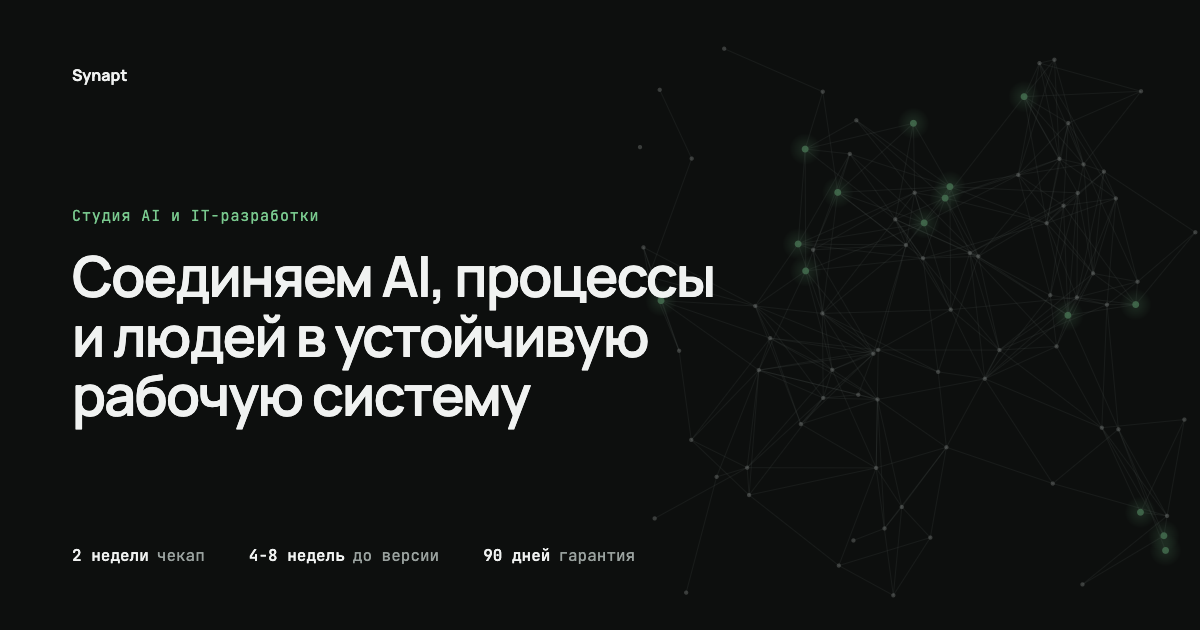
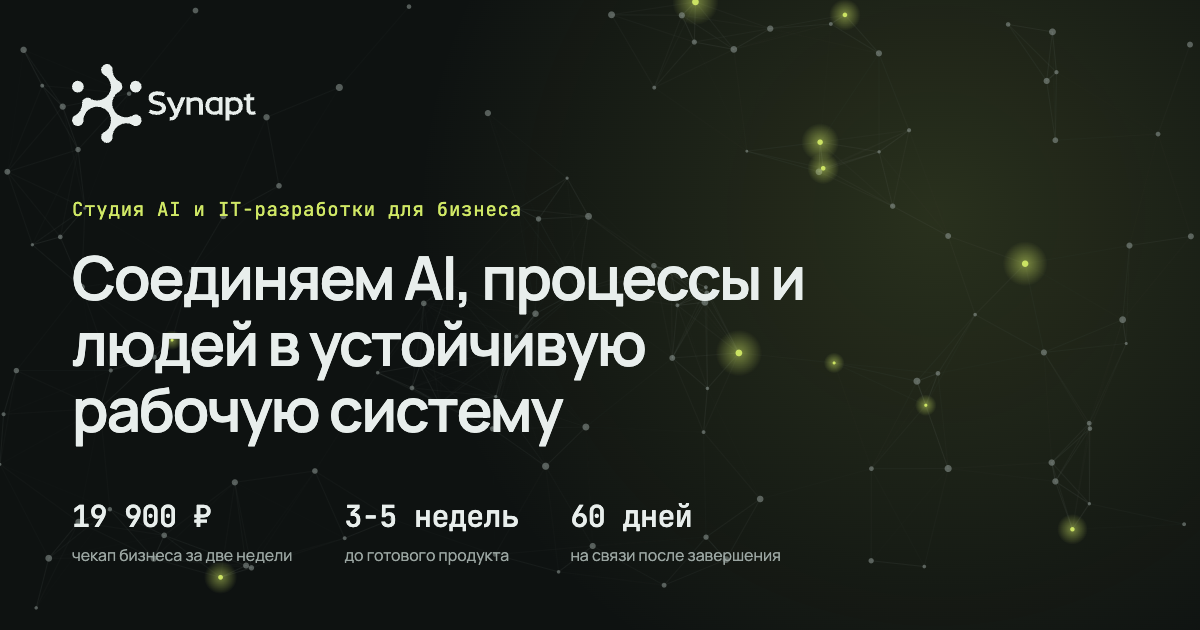
Новая иконка вкладки и превью ссылки в лайме

diff --git a/content/index.html b/content/index.html
@@ -306,7 +306,12 @@ h3{font-size:19px;font-weight:600;letter-spacing:-.015em}
  .rules.seq .rule:nth-child(2n)::after{display:none}}
 @media(max-width:560px){.rules.seq{grid-template-columns:1fr}
  .rules.seq .rule::after{display:none}}
-</style></head>
+</style><link rel="icon" href="/favicon.svg" type="image/svg+xml">
+<link rel="icon" href="/favicon-512.png" sizes="512x512" type="image/png">
+<link rel="apple-touch-icon" href="/apple-touch-icon.png">
+<meta name="theme-color" content="#0E1211">
+<meta property="og:image" content="https://synapt.tech/og.png">
+</head>
 <body>
 <svg width="0" height="0" style="position:absolute" aria-hidden="true"><symbol id="lg" viewBox="0 0 839 360"><g transform="translate(-30,0)"><path d="M416.193 232.251C403.922 232.402 389.832 229.229 379.378 222.582L386.65 207.775C392.71 211.099 404.225 215.178 416.193 215.481C426.344 215.632 437.403 212.912 439.524 204.301C440.585 199.013 438.312 194.48 433.767 192.063C425.435 187.379 414.527 185.869 405.134 183.149C390.438 178.768 378.166 170.609 379.378 153.386C380.893 130.27 402.255 124.529 421.95 124.68C433.161 124.831 443.615 126.796 453.917 130.875L447.857 146.738C439.827 143.717 429.828 141.753 420.89 141.753C412.557 141.602 399.074 142.961 398.316 154.141C398.013 161.847 404.225 164.717 410.285 166.681C422.556 170.156 434.07 171.063 445.281 177.559C456.341 184.056 460.583 194.934 457.856 207.322C453.766 226.661 433.313 232.1 416.193 232.251Z"/><path d="M476.072 257.33L475.617 242.071C484.556 242.675 490.767 241.618 494.555 232.402L496.221 228.02L460.316 151.573H480.314L505.312 206.567L527.431 151.573H547.126L511.372 237.388C504.706 253.402 492.282 258.539 476.072 257.33Z"/><path d="M552.394 231.344V151.573H566.484L568.453 157.616C577.24 153.537 586.936 151.271 595.724 151.422C612.843 151.573 627.236 160.487 627.236 183.602V231.344H609.359V183.602C609.359 171.365 602.693 166.983 593.754 166.832C585.573 166.681 576.028 169.854 570.12 174.689V231.344H552.394Z"/><path d="M699.051 210.495V171.516C694.354 166.681 685.113 164.566 677.992 164.868C665.721 165.17 655.57 173.48 655.57 190.854C655.57 208.531 665.721 216.689 677.992 217.143C685.113 217.294 694.354 215.027 699.051 210.495ZM637.844 190.854C637.844 166.681 654.51 150.062 678.447 150.062C685.719 150.062 694.203 151.724 700.566 155.803L702.081 150.666H716.777V231.344H702.081L700.566 226.056C694.203 230.287 685.719 231.949 678.447 231.949C654.51 231.949 637.844 215.178 637.844 190.854Z"/><path d="M767.811 216.689C782.81 216.689 791.143 206.114 791.143 191.459C791.143 174.537 781.901 166.983 770.387 166.379C762.812 165.926 754.025 167.588 748.116 173.631V210.797C752.51 215.027 760.539 216.689 767.811 216.689ZM730.39 257.33V151.573H744.329L746.45 156.861C753.873 152.933 761.297 150.818 769.932 150.818C794.173 150.818 809.02 167.286 809.02 191.459C809.02 215.783 791.597 232.1 767.811 232.1C760.994 232.1 754.328 230.589 748.116 227.567V257.33H730.39Z"/><path d="M852.032 232.251C837.942 232.402 825.519 223.941 825.519 205.358V165.624H812.793V151.573H825.519V138.731L843.396 133.745V151.573H860.819V165.624H843.396V205.358C843.396 214.423 847.941 216.84 853.85 216.991C857.183 217.143 860.97 216.538 864.607 215.33L869 229.229C863.243 231.344 857.637 232.251 852.032 232.251Z"/></g><path d="M159.195 0C171.173 0 181.31 7.88936 184.654 18.7451C184.861 19.4161 184.908 20.1234 184.851 20.8231C184.713 22.5205 184.642 24.2362 184.642 25.9672C184.642 28.5667 184.802 31.1306 185.112 33.6486C187.506 53.1417 198.885 69.8519 214.978 79.5476C215.737 80.0051 216.509 80.4455 217.289 80.8709C224.71 85.592 229.619 93.8647 229.619 103.279C229.619 111.25 226.1 118.397 220.517 123.269C220.133 123.604 219.697 123.871 219.237 124.09C216.415 125.431 213.707 126.973 211.137 128.703C197.248 138.051 187.307 152.808 184.361 169.958C183.768 173.416 183.459 176.969 183.459 180.59C183.459 183.918 183.72 187.188 184.223 190.38C186.834 206.945 195.96 221.343 208.889 230.892C212.572 233.613 216.567 235.941 220.808 237.814C228.573 241.244 237.163 243.148 246.19 243.148C255.217 243.148 263.807 241.244 271.571 237.814C275.309 236.163 278.854 234.158 282.164 231.844C282.713 231.46 283.316 231.153 283.966 230.988C286.076 230.451 288.29 230.164 290.575 230.164C305.283 230.164 317.206 242.054 317.206 256.721C317.206 271.389 305.283 283.279 290.575 283.279C289.033 283.279 287.524 283.148 286.058 282.898C285.232 282.758 284.465 282.394 283.783 281.908C279.702 279.002 275.256 276.569 270.525 274.695C263.358 271.855 255.544 270.295 247.373 270.295C237.26 270.295 227.695 272.684 219.226 276.931C216.488 278.304 213.866 279.87 211.377 281.612C196.983 291.686 187.018 307.649 185.013 326.007C184.768 328.256 184.642 330.541 184.642 332.852C184.642 334.869 184.739 336.864 184.927 338.833C184.993 339.532 184.956 340.239 184.758 340.913C181.523 351.944 171.299 360 159.195 360C144.487 360 132.564 348.11 132.564 333.443C132.564 326.274 135.408 319.772 140.041 314.99C140.506 314.511 141.068 314.141 141.672 313.855C145.364 312.109 148.859 310.015 152.111 307.614C165.04 298.064 174.165 283.666 176.777 267.101C177.28 263.91 177.541 260.64 177.541 257.311C177.541 253.69 177.232 250.137 176.638 246.679C173.508 228.455 162.48 212.934 147.205 203.731C146.398 203.245 145.579 202.777 144.75 202.327C135.849 197.497 125.645 194.754 114.81 194.754C105.616 194.754 96.8757 196.73 88.9992 200.28C85.7632 201.739 82.6721 203.462 79.7569 205.424C65.0769 215.305 54.8087 231.228 52.5479 249.63C52.2386 252.148 52.0786 252.942 52.0786 255.541C52.0786 257.632 52.9736 261.276 52.3826 263.512C49.3746 274.891 38.9818 283.279 26.6311 283.279C11.9232 283.279 0 271.389 0 256.721C0 249.645 2.77124 243.219 7.29812 238.456C10.0606 235.549 17.1676 233.615 21.4887 230.322C34.7668 220.202 43.882 204.903 45.7895 187.436C46.0352 185.186 46.1606 182.902 46.1606 180.59C46.1606 178.573 46.063 176.578 45.875 174.609C45.8083 173.91 45.8458 173.202 46.0434 172.529C49.279 161.498 59.5045 153.443 71.6081 153.443C73.1495 153.443 74.6579 153.573 76.1233 153.822C76.9496 153.962 77.7164 154.327 78.3985 154.812C82.4801 157.719 86.9264 160.152 91.6577 162.027C98.8255 164.866 106.639 166.426 114.81 166.426C123.836 166.426 132.427 164.523 140.191 161.093C144.433 159.219 148.427 156.892 152.111 154.171C165.8 144.06 175.226 128.512 177.17 110.715C177.415 108.465 177.541 106.18 177.541 103.869C177.541 101.269 177.381 98.7055 177.071 96.1875C174.677 76.6944 163.298 59.9841 147.205 50.2884C146.447 49.8315 145.675 49.3903 144.894 48.964C137.473 44.2427 132.564 35.9708 132.564 26.5574C132.564 11.8901 144.487 0 159.195 0ZM26.6311 76.7213C41.3391 76.7213 53.2622 88.6115 53.2622 103.279C53.2622 117.946 41.3391 129.836 26.6311 129.836C11.9231 129.836 0 117.946 0 103.279C0 88.6115 11.9231 76.7213 26.6311 76.7213ZM290.575 76.7213C305.283 76.7213 317.206 88.6115 317.206 103.279C317.206 117.946 305.283 129.836 290.575 129.836C275.867 129.836 263.944 117.946 263.944 103.279C263.944 88.6115 275.867 76.7213 290.575 76.7213Z"/></symbol></svg>
 <div class="wrap">

diff --git a/site/content/index.html b/site/content/index.html
@@ -306,7 +306,12 @@ h3{font-size:19px;font-weight:600;letter-spacing:-.015em}
  .rules.seq .rule:nth-child(2n)::after{display:none}}
 @media(max-width:560px){.rules.seq{grid-template-columns:1fr}
  .rules.seq .rule::after{display:none}}
-</style></head>
+</style><link rel="icon" href="/favicon.svg" type="image/svg+xml">
+<link rel="icon" href="/favicon-512.png" sizes="512x512" type="image/png">
+<link rel="apple-touch-icon" href="/apple-touch-icon.png">
+<meta name="theme-color" content="#0E1211">
+<meta property="og:image" content="https://synapt.tech/og.png">
+</head>
 <body>
 <svg width="0" height="0" style="position:absolute" aria-hidden="true"><symbol id="lg" viewBox="0 0 839 360"><g transform="translate(-30,0)"><path d="M416.193 232.251C403.922 232.402 389.832 229.229 379.378 222.582L386.65 207.775C392.71 211.099 404.225 215.178 416.193 215.481C426.344 215.632 437.403 212.912 439.524 204.301C440.585 199.013 438.312 194.48 433.767 192.063C425.435 187.379 414.527 185.869 405.134 183.149C390.438 178.768 378.166 170.609 379.378 153.386C380.893 130.27 402.255 124.529 421.95 124.68C433.161 124.831 443.615 126.796 453.917 130.875L447.857 146.738C439.827 143.717 429.828 141.753 420.89 141.753C412.557 141.602 399.074 142.961 398.316 154.141C398.013 161.847 404.225 164.717 410.285 166.681C422.556 170.156 434.07 171.063 445.281 177.559C456.341 184.056 460.583 194.934 457.856 207.322C453.766 226.661 433.313 232.1 416.193 232.251Z"/><path d="M476.072 257.33L475.617 242.071C484.556 242.675 490.767 241.618 494.555 232.402L496.221 228.02L460.316 151.573H480.314L505.312 206.567L527.431 151.573H547.126L511.372 237.388C504.706 253.402 492.282 258.539 476.072 257.33Z"/><path d="M552.394 231.344V151.573H566.484L568.453 157.616C577.24 153.537 586.936 151.271 595.724 151.422C612.843 151.573 627.236 160.487 627.236 183.602V231.344H609.359V183.602C609.359 171.365 602.693 166.983 593.754 166.832C585.573 166.681 576.028 169.854 570.12 174.689V231.344H552.394Z"/><path d="M699.051 210.495V171.516C694.354 166.681 685.113 164.566 677.992 164.868C665.721 165.17 655.57 173.48 655.57 190.854C655.57 208.531 665.721 216.689 677.992 217.143C685.113 217.294 694.354 215.027 699.051 210.495ZM637.844 190.854C637.844 166.681 654.51 150.062 678.447 150.062C685.719 150.062 694.203 151.724 700.566 155.803L702.081 150.666H716.777V231.344H702.081L700.566 226.056C694.203 230.287 685.719 231.949 678.447 231.949C654.51 231.949 637.844 215.178 637.844 190.854Z"/><path d="M767.811 216.689C782.81 216.689 791.143 206.114 791.143 191.459C791.143 174.537 781.901 166.983 770.387 166.379C762.812 165.926 754.025 167.588 748.116 173.631V210.797C752.51 215.027 760.539 216.689 767.811 216.689ZM730.39 257.33V151.573H744.329L746.45 156.861C753.873 152.933 761.297 150.818 769.932 150.818C794.173 150.818 809.02 167.286 809.02 191.459C809.02 215.783 791.597 232.1 767.811 232.1C760.994 232.1 754.328 230.589 748.116 227.567V257.33H730.39Z"/><path d="M852.032 232.251C837.942 232.402 825.519 223.941 825.519 205.358V165.624H812.793V151.573H825.519V138.731L843.396 133.745V151.573H860.819V165.624H843.396V205.358C843.396 214.423 847.941 216.84 853.85 216.991C857.183 217.143 860.97 216.538 864.607 215.33L869 229.229C863.243 231.344 857.637 232.251 852.032 232.251Z"/></g><path d="M159.195 0C171.173 0 181.31 7.88936 184.654 18.7451C184.861 19.4161 184.908 20.1234 184.851 20.8231C184.713 22.5205 184.642 24.2362 184.642 25.9672C184.642 28.5667 184.802 31.1306 185.112 33.6486C187.506 53.1417 198.885 69.8519 214.978 79.5476C215.737 80.0051 216.509 80.4455 217.289 80.8709C224.71 85.592 229.619 93.8647 229.619 103.279C229.619 111.25 226.1 118.397 220.517 123.269C220.133 123.604 219.697 123.871 219.237 124.09C216.415 125.431 213.707 126.973 211.137 128.703C197.248 138.051 187.307 152.808 184.361 169.958C183.768 173.416 183.459 176.969 183.459 180.59C183.459 183.918 183.72 187.188 184.223 190.38C186.834 206.945 195.96 221.343 208.889 230.892C212.572 233.613 216.567 235.941 220.808 237.814C228.573 241.244 237.163 243.148 246.19 243.148C255.217 243.148 263.807 241.244 271.571 237.814C275.309 236.163 278.854 234.158 282.164 231.844C282.713 231.46 283.316 231.153 283.966 230.988C286.076 230.451 288.29 230.164 290.575 230.164C305.283 230.164 317.206 242.054 317.206 256.721C317.206 271.389 305.283 283.279 290.575 283.279C289.033 283.279 287.524 283.148 286.058 282.898C285.232 282.758 284.465 282.394 283.783 281.908C279.702 279.002 275.256 276.569 270.525 274.695C263.358 271.855 255.544 270.295 247.373 270.295C237.26 270.295 227.695 272.684 219.226 276.931C216.488 278.304 213.866 279.87 211.377 281.612C196.983 291.686 187.018 307.649 185.013 326.007C184.768 328.256 184.642 330.541 184.642 332.852C184.642 334.869 184.739 336.864 184.927 338.833C184.993 339.532 184.956 340.239 184.758 340.913C181.523 351.944 171.299 360 159.195 360C144.487 360 132.564 348.11 132.564 333.443C132.564 326.274 135.408 319.772 140.041 314.99C140.506 314.511 141.068 314.141 141.672 313.855C145.364 312.109 148.859 310.015 152.111 307.614C165.04 298.064 174.165 283.666 176.777 267.101C177.28 263.91 177.541 260.64 177.541 257.311C177.541 253.69 177.232 250.137 176.638 246.679C173.508 228.455 162.48 212.934 147.205 203.731C146.398 203.245 145.579 202.777 144.75 202.327C135.849 197.497 125.645 194.754 114.81 194.754C105.616 194.754 96.8757 196.73 88.9992 200.28C85.7632 201.739 82.6721 203.462 79.7569 205.424C65.0769 215.305 54.8087 231.228 52.5479 249.63C52.2386 252.148 52.0786 252.942 52.0786 255.541C52.0786 257.632 52.9736 261.276 52.3826 263.512C49.3746 274.891 38.9818 283.279 26.6311 283.279C11.9232 283.279 0 271.389 0 256.721C0 249.645 2.77124 243.219 7.29812 238.456C10.0606 235.549 17.1676 233.615 21.4887 230.322C34.7668 220.202 43.882 204.903 45.7895 187.436C46.0352 185.186 46.1606 182.902 46.1606 180.59C46.1606 178.573 46.063 176.578 45.875 174.609C45.8083 173.91 45.8458 173.202 46.0434 172.529C49.279 161.498 59.5045 153.443 71.6081 153.443C73.1495 153.443 74.6579 153.573 76.1233 153.822C76.9496 153.962 77.7164 154.327 78.3985 154.812C82.4801 157.719 86.9264 160.152 91.6577 162.027C98.8255 164.866 106.639 166.426 114.81 166.426C123.836 166.426 132.427 164.523 140.191 161.093C144.433 159.219 148.427 156.892 152.111 154.171C165.8 144.06 175.226 128.512 177.17 110.715C177.415 108.465 177.541 106.18 177.541 103.869C177.541 101.269 177.381 98.7055 177.071 96.1875C174.677 76.6944 163.298 59.9841 147.205 50.2884C146.447 49.8315 145.675 49.3903 144.894 48.964C137.473 44.2427 132.564 35.9708 132.564 26.5574C132.564 11.8901 144.487 0 159.195 0ZM26.6311 76.7213C41.3391 76.7213 53.2622 88.6115 53.2622 103.279C53.2622 117.946 41.3391 129.836 26.6311 129.836C11.9231 129.836 0 117.946 0 103.279C0 88.6115 11.9231 76.7213 26.6311 76.7213ZM290.575 76.7213C305.283 76.7213 317.206 88.6115 317.206 103.279C317.206 117.946 305.283 129.836 290.575 129.836C275.867 129.836 263.944 117.946 263.944 103.279C263.944 88.6115 275.867 76.7213 290.575 76.7213Z"/></symbol></svg>
 <div class="wrap">

diff --git a/prodazh/index.html b/prodazh/index.html
@@ -11,12 +11,12 @@
 <meta property="og:title" content="Synapt – AI-продавец в&nbsp;переписке">
 <meta property="og:description" content="AI-продавец в&nbsp;переписке">
 <meta property="og:url" content="/synapt/prodazh/">
-<meta property="og:image" content="/synapt/prodazh/og.png">
+<meta property="og:image" content="https://synapt.tech/og.png">
 <meta property="og:image:width" content="1200">
 <meta property="og:image:height" content="630">
 <meta name="twitter:card" content="summary_large_image">
 <meta name="twitter:title" content="Synapt – AI-продавец в&nbsp;переписке">
-<meta name="twitter:image" content="/synapt/prodazh/og.png">
+<meta name="twitter:image" content="https://synapt.tech/og.png">
 <link rel="canonical" href="/synapt/prodazh/">
 <link rel="preconnect" href="https://fonts.googleapis.com">
 <link rel="preconnect" href="https://fonts.gstatic.com" crossorigin>
@@ -1371,6 +1371,10 @@ footer{margin-top:26px;padding:24px 0 0;break-inside:avoid;page-break-inside:avo
   border-bottom:1px solid var(--line-accent);width:fit-content;font-feature-settings:"liga" 0}
 
 </style>
+<link rel="icon" href="/favicon.svg" type="image/svg+xml">
+<link rel="icon" href="/favicon-512.png" sizes="512x512" type="image/png">
+<link rel="apple-touch-icon" href="/apple-touch-icon.png">
+<meta name="theme-color" content="#0E1211">
 </head>
 <body>
 <nav class="nav"><div class="wrap">

diff --git a/checkup/index.html b/checkup/index.html
@@ -11,7 +11,7 @@
 <meta property="og:title" content="За&nbsp;две недели видно, где теряете деньги и&nbsp;что&nbsp;делать первым">
 <meta property="og:description" content="AI-чекап бизнеса за&nbsp;две недели: три Zoom, карта всех процессов компании с&nbsp;узкими местами, приоритеты, план с&nbsp;вилкой бюджета и&nbsp;собранный агент на&nbsp;ваших материалах. 19 900 ₽">
 <meta property="og:url" content="/synapt/checkup/">
-<meta property="og:image" content="/synapt/checkup/og.png">
+<meta property="og:image" content="https://synapt.tech/og.png">
 <meta property="og:image:width" content="1200">
 <meta property="og:image:height" content="630">
 <meta name="twitter:card" content="summary_large_image">
@@ -980,6 +980,10 @@ footer{padding-bottom:104px}
 .lf-check a,.agree a{color:var(--text-muted)!important;border-bottom-color:var(--line-accent)!important}
 .lf-check a:hover,.agree a:hover{color:var(--text)!important;border-bottom-color:var(--accent)!important}
 </style>
+<link rel="icon" href="/favicon.svg" type="image/svg+xml">
+<link rel="icon" href="/favicon-512.png" sizes="512x512" type="image/png">
+<link rel="apple-touch-icon" href="/apple-touch-icon.png">
+<meta name="theme-color" content="#0E1211">
 </head>
 <body>
 <nav class="nav"><div class="wrap">

diff --git a/site/checkup/index.html b/site/checkup/index.html
@@ -11,7 +11,7 @@
 <meta property="og:title" content="За&nbsp;две недели видно, где теряете деньги и&nbsp;что&nbsp;делать первым">
 <meta property="og:description" content="AI-чекап бизнеса за&nbsp;две недели: три Zoom, карта всех процессов компании с&nbsp;узкими местами, приоритеты, план с&nbsp;вилкой бюджета и&nbsp;собранный агент на&nbsp;ваших материалах. 19 900 ₽">
 <meta property="og:url" content="/checkup/">
-<meta property="og:image" content="/checkup/og.png">
+<meta property="og:image" content="https://synapt.tech/og.png">
 <meta property="og:image:width" content="1200">
 <meta property="og:image:height" content="630">
 <meta name="twitter:card" content="summary_large_image">
@@ -980,6 +980,10 @@ footer{padding-bottom:104px}
 .lf-check a,.agree a{color:var(--text-muted)!important;border-bottom-color:var(--line-accent)!important}
 .lf-check a:hover,.agree a:hover{color:var(--text)!important;border-bottom-color:var(--accent)!important}
 </style>
+<link rel="icon" href="/favicon.svg" type="image/svg+xml">
+<link rel="icon" href="/favicon-512.png" sizes="512x512" type="image/png">
+<link rel="apple-touch-icon" href="/apple-touch-icon.png">
+<meta name="theme-color" content="#0E1211">
 </head>
 <body>
 <nav class="nav"><div class="wrap">

diff --git a/site/prodazh/index.html b/site/prodazh/index.html
@@ -11,12 +11,12 @@
 <meta property="og:title" content="Synapt – AI-продавец в&nbsp;переписке">
 <meta property="og:description" content="AI-продавец в&nbsp;переписке">
 <meta property="og:url" content="/prodazh/">
-<meta property="og:image" content="/prodazh/og.png">
+<meta property="og:image" content="https://synapt.tech/og.png">
 <meta property="og:image:width" content="1200">
 <meta property="og:image:height" content="630">
 <meta name="twitter:card" content="summary_large_image">
 <meta name="twitter:title" content="Synapt – AI-продавец в&nbsp;переписке">
-<meta name="twitter:image" content="/prodazh/og.png">
+<meta name="twitter:image" content="https://synapt.tech/og.png">
 <link rel="canonical" href="/prodazh/">
 <link rel="preconnect" href="https://fonts.googleapis.com">
 <link rel="preconnect" href="https://fonts.gstatic.com" crossorigin>
@@ -1371,6 +1371,10 @@ footer{margin-top:26px;padding:24px 0 0;break-inside:avoid;page-break-inside:avo
   border-bottom:1px solid var(--line-accent);width:fit-content;font-feature-settings:"liga" 0}
 
 </style>
+<link rel="icon" href="/favicon.svg" type="image/svg+xml">
+<link rel="icon" href="/favicon-512.png" sizes="512x512" type="image/png">
+<link rel="apple-touch-icon" href="/apple-touch-icon.png">
+<meta name="theme-color" content="#0E1211">
 </head>
 <body>
 <nav class="nav"><div class="wrap">

diff --git a/safe/index.html b/safe/index.html
@@ -11,12 +11,12 @@
 <meta property="og:title" content="Synapt – Безопасный слой">
 <meta property="og:description" content="Безопасный слой">
 <meta property="og:url" content="/synapt/safe/">
-<meta property="og:image" content="/synapt/safe/og.png">
+<meta property="og:image" content="https://synapt.tech/og.png">
 <meta property="og:image:width" content="1200">
 <meta property="og:image:height" content="630">
 <meta name="twitter:card" content="summary_large_image">
 <meta name="twitter:title" content="Synapt – Безопасный слой">
-<meta name="twitter:image" content="/synapt/safe/og.png">
+<meta name="twitter:image" content="https://synapt.tech/og.png">
 <link rel="canonical" href="/synapt/safe/">
 <link rel="preconnect" href="https://fonts.googleapis.com">
 <link rel="preconnect" href="https://fonts.gstatic.com" crossorigin>
@@ -1371,6 +1371,10 @@ footer{margin-top:26px;padding:24px 0 0;break-inside:avoid;page-break-inside:avo
   border-bottom:1px solid var(--line-accent);width:fit-content;font-feature-settings:"liga" 0}
 
 </style>
+<link rel="icon" href="/favicon.svg" type="image/svg+xml">
+<link rel="icon" href="/favicon-512.png" sizes="512x512" type="image/png">
+<link rel="apple-touch-icon" href="/apple-touch-icon.png">
+<meta name="theme-color" content="#0E1211">
 </head>
 <body>
 <nav class="nav"><div class="wrap">

diff --git a/globaldent/index.html b/globaldent/index.html
@@ -11,12 +11,12 @@
 <meta property="og:title" content="Synapt – Кейс GlobalDent">
 <meta property="og:description" content="Кейс GlobalDent">
 <meta property="og:url" content="/synapt/globaldent/">
-<meta property="og:image" content="/synapt/globaldent/og.png">
+<meta property="og:image" content="https://synapt.tech/og.png">
 <meta property="og:image:width" content="1200">
 <meta property="og:image:height" content="630">
 <meta name="twitter:card" content="summary_large_image">
 <meta name="twitter:title" content="Synapt – Кейс GlobalDent">
-<meta name="twitter:image" content="/synapt/globaldent/og.png">
+<meta name="twitter:image" content="https://synapt.tech/og.png">
 <link rel="canonical" href="/synapt/globaldent/">
 <link rel="preconnect" href="https://fonts.googleapis.com">
 <link rel="preconnect" href="https://fonts.gstatic.com" crossorigin>
@@ -1371,6 +1371,10 @@ footer{margin-top:26px;padding:24px 0 0;break-inside:avoid;page-break-inside:avo
   border-bottom:1px solid var(--line-accent);width:fit-content;font-feature-settings:"liga" 0}
 
 </style>
+<link rel="icon" href="/favicon.svg" type="image/svg+xml">
+<link rel="icon" href="/favicon-512.png" sizes="512x512" type="image/png">
+<link rel="apple-touch-icon" href="/apple-touch-icon.png">
+<meta name="theme-color" content="#0E1211">
 </head>
 <body>
 <nav class="nav"><div class="wrap">

diff --git a/innorto/index.html b/innorto/index.html
@@ -11,12 +11,12 @@
 <meta property="og:title" content="Synapt – Кейс INNORTO">
 <meta property="og:description" content="Кейс INNORTO">
 <meta property="og:url" content="/synapt/innorto/">
-<meta property="og:image" content="/synapt/innorto/og.png">
+<meta property="og:image" content="https://synapt.tech/og.png">
 <meta property="og:image:width" content="1200">
 <meta property="og:image:height" content="630">
 <meta name="twitter:card" content="summary_large_image">
 <meta name="twitter:title" content="Synapt – Кейс INNORTO">
-<meta name="twitter:image" content="/synapt/innorto/og.png">
+<meta name="twitter:image" content="https://synapt.tech/og.png">
 <link rel="canonical" href="/synapt/innorto/">
 <link rel="preconnect" href="https://fonts.googleapis.com">
 <link rel="preconnect" href="https://fonts.gstatic.com" crossorigin>
@@ -1371,6 +1371,10 @@ footer{margin-top:26px;padding:24px 0 0;break-inside:avoid;page-break-inside:avo
   border-bottom:1px solid var(--line-accent);width:fit-content;font-feature-settings:"liga" 0}
 
 </style>
+<link rel="icon" href="/favicon.svg" type="image/svg+xml">
+<link rel="icon" href="/favicon-512.png" sizes="512x512" type="image/png">
+<link rel="apple-touch-icon" href="/apple-touch-icon.png">
+<meta name="theme-color" content="#0E1211">
 </head>
 <body>
 <nav class="nav"><div class="wrap">

diff --git a/site/safe/index.html b/site/safe/index.html
@@ -11,12 +11,12 @@
 <meta property="og:title" content="Synapt – Безопасный слой">
 <meta property="og:description" content="Безопасный слой">
 <meta property="og:url" content="/safe/">
-<meta property="og:image" content="/safe/og.png">
+<meta property="og:image" content="https://synapt.tech/og.png">
 <meta property="og:image:width" content="1200">
 <meta property="og:image:height" content="630">
 <meta name="twitter:card" content="summary_large_image">
 <meta name="twitter:title" content="Synapt – Безопасный слой">
-<meta name="twitter:image" content="/safe/og.png">
+<meta name="twitter:image" content="https://synapt.tech/og.png">
 <link rel="canonical" href="/safe/">
 <link rel="preconnect" href="https://fonts.googleapis.com">
 <link rel="preconnect" href="https://fonts.gstatic.com" crossorigin>
@@ -1371,6 +1371,10 @@ footer{margin-top:26px;padding:24px 0 0;break-inside:avoid;page-break-inside:avo
   border-bottom:1px solid var(--line-accent);width:fit-content;font-feature-settings:"liga" 0}
 
 </style>
+<link rel="icon" href="/favicon.svg" type="image/svg+xml">
+<link rel="icon" href="/favicon-512.png" sizes="512x512" type="image/png">
+<link rel="apple-touch-icon" href="/apple-touch-icon.png">
+<meta name="theme-color" content="#0E1211">
 </head>
 <body>
 <nav class="nav"><div class="wrap">

diff --git a/index.html b/index.html
@@ -11,7 +11,7 @@
 <meta property="og:title" content="Соединяем AI, процессы и&nbsp;людей в&nbsp;устойчивую рабочую систему">
 <meta property="og:description" content="Проектируем цифровые продукты и&nbsp;встраиваем AI в&nbsp;рабочие процессы: продажи, поддержку, документы. Код и&nbsp;обученная команда остаются у&nbsp;вас">
 <meta property="og:url" content="/synapt/">
-<meta property="og:image" content="/synapt/og.png">
+<meta property="og:image" content="https://synapt.tech/og.png">
 <meta property="og:image:width" content="1200">
 <meta property="og:image:height" content="630">
 <meta name="twitter:card" content="summary_large_image">
@@ -1806,6 +1806,10 @@ footer .f-legal a::after{content:"";position:absolute;left:0;right:0;top:50%;
 if(s)r.setAttribute('data-theme',s);
 /* по умолчанию тёмная: светлую включает только сам посетитель кнопкой */})();
 </script>
+<link rel="icon" href="/favicon.svg" type="image/svg+xml">
+<link rel="icon" href="/favicon-512.png" sizes="512x512" type="image/png">
+<link rel="apple-touch-icon" href="/apple-touch-icon.png">
+<meta name="theme-color" content="#0E1211">
 </head>
 <body>
 <script>

diff --git a/desant/index.html b/desant/index.html
@@ -11,12 +11,12 @@
 <meta property="og:title" content="Synapt – AI-десант">
 <meta property="og:description" content="AI-десант">
 <meta property="og:url" content="/synapt/desant/">
-<meta property="og:image" content="/synapt/desant/og.png">
+<meta property="og:image" content="https://synapt.tech/og.png">
 <meta property="og:image:width" content="1200">
 <meta property="og:image:height" content="630">
 <meta name="twitter:card" content="summary_large_image">
 <meta name="twitter:title" content="Synapt – AI-десант">
-<meta name="twitter:image" content="/synapt/desant/og.png">
+<meta name="twitter:image" content="https://synapt.tech/og.png">
 <link rel="canonical" href="/synapt/desant/">
 <link rel="preconnect" href="https://fonts.googleapis.com">
 <link rel="preconnect" href="https://fonts.gstatic.com" crossorigin>
@@ -1391,6 +1391,10 @@ footer{margin-top:26px;padding:24px 0 0;break-inside:avoid;page-break-inside:avo
   border-bottom:1px solid var(--line-accent);width:fit-content;font-feature-settings:"liga" 0}
 
 </style>
+<link rel="icon" href="/favicon.svg" type="image/svg+xml">
+<link rel="icon" href="/favicon-512.png" sizes="512x512" type="image/png">
+<link rel="apple-touch-icon" href="/apple-touch-icon.png">
+<meta name="theme-color" content="#0E1211">
 </head>
 <body>
 <nav class="nav"><div class="wrap">
